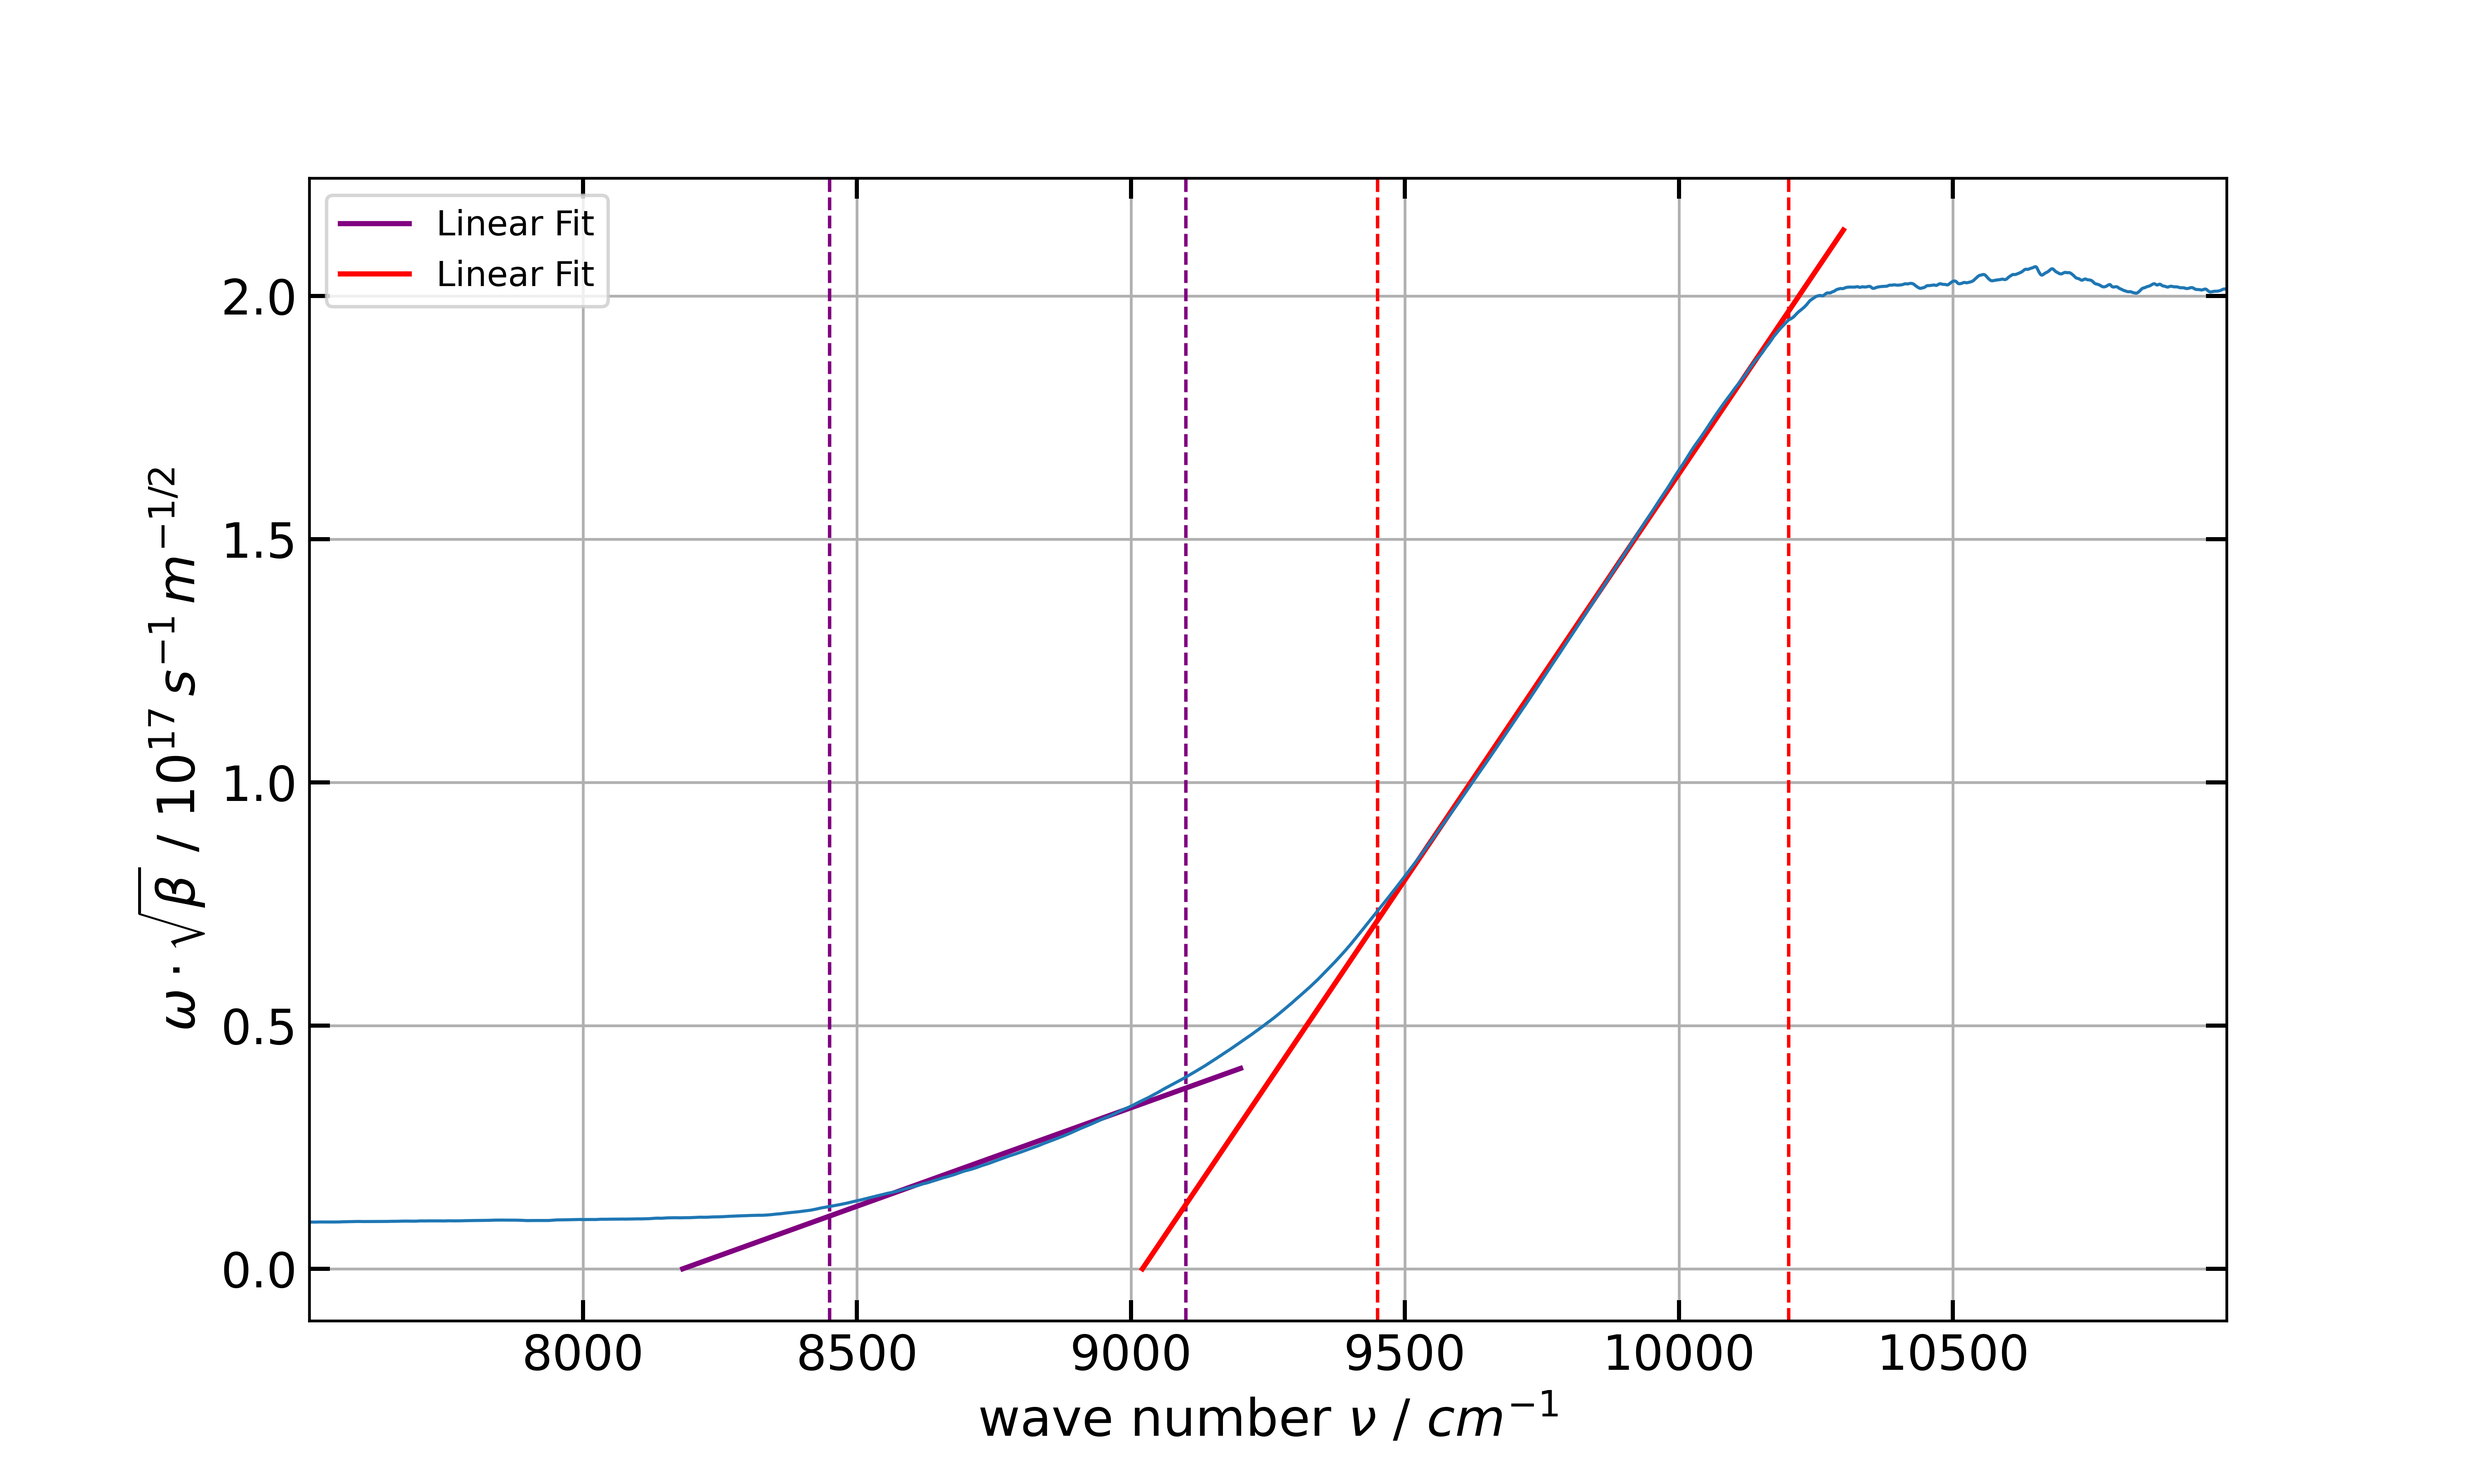
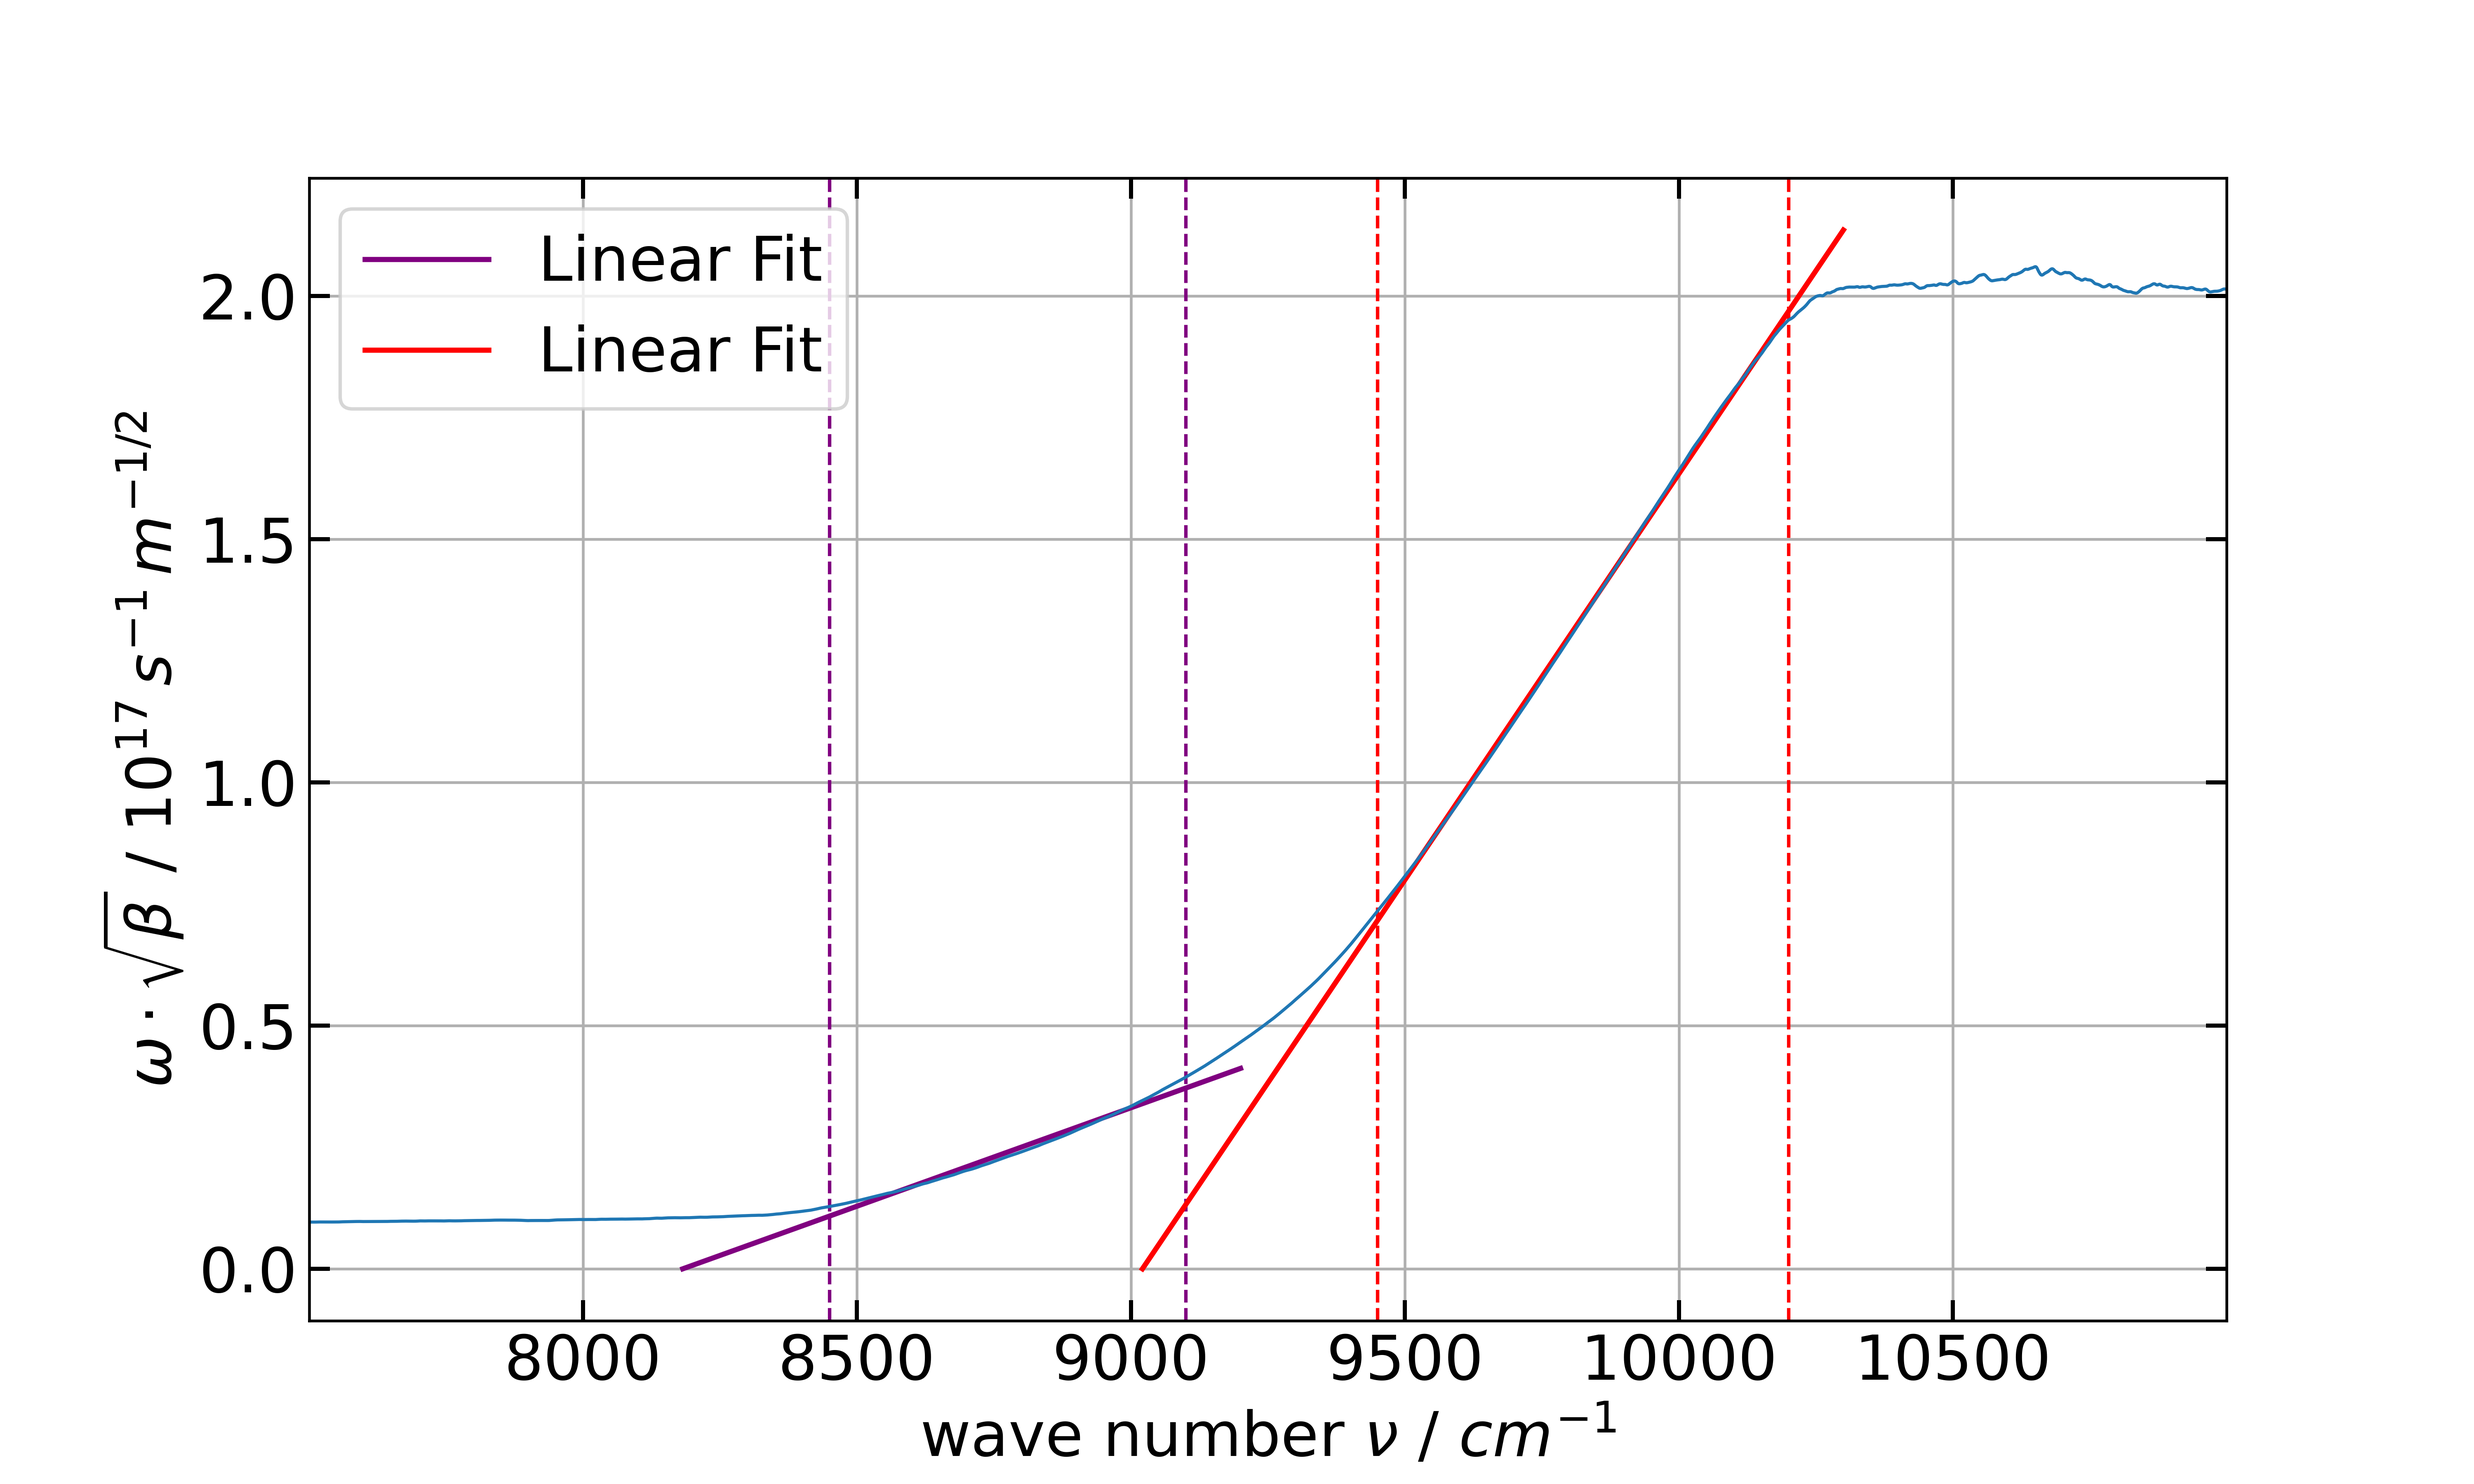
Bilder einfach noch schöner

diff --git a/SolidStateOptics/countTo50.py b/SolidStateOptics/countTo50.py
@@ -49,13 +49,13 @@ def plot_peaks(data, d, x_center, x_range, prominence=0.004, filename=""):
        
     plt.xlabel(plt.gca().get_xlabel(), fontsize=15)
     plt.ylabel(plt.gca().get_xlabel(), fontsize=15)
-    plt.tick_params(axis='both', labelsize=14)
+    plt.tick_params(axis='both', labelsize=18)
     plt.tick_params(axis='both', direction='in', which='both', top=True, right=True)
     plt.tick_params(axis='both', length=6, width=1.2)
-    plt.xlabel(r'wave number $\nu$ / ' + r'$cm^{-1}$', fontsize=15)
-    plt.ylabel(r'Reflectivity R', fontsize=15)
+    plt.xlabel(r'wave number $\nu$ / ' + r'$cm^{-1}$', fontsize=18)
+    plt.ylabel(r'reflectivity R', fontsize=20)
     plt.xlim(left=x_min, right=x_max)
-    plt.legend(fontsize=15) 
+    plt.legend(fontsize=20) 
     save_and_open(filename=filename)
 
 def calculate_n(data, d, x_center, windowSize, prominence=0.004):
@@ -71,7 +71,7 @@ def calculate_n(data, d, x_center, windowSize, prominence=0.004):
     
     periods = [- x_values[peaksInWindow[i + 1]] + x_values[peaksInWindow[i]] for i in range(len(peaksInWindow)-1)]
     period = sum(periods) / len(periods)
-    print(f"nr. period {len(periods)} bei nu {x_center}")      
+    #print(f"nr. period {len(periods)} bei nu {x_center}")      
     return 1/(2*d*period*100)
 
 
@@ -87,19 +87,19 @@ def plot_the_ns(windowsize=200):
         plt.plot([nu for nu in range(nu_min, nu_max, 500)], ns, '.', label=label, markersize=10, color=colors[idx % len(colors)])  # Use color from the list
 
     plt.grid(True)
-    plt.xlabel(plt.gca().get_xlabel(), fontsize=15)
-    plt.ylabel(plt.gca().get_xlabel(), fontsize=15)
-    plt.tick_params(axis='both', labelsize=14)
+    plt.xlabel(plt.gca().get_xlabel(), fontsize=20)
+    plt.ylabel(plt.gca().get_xlabel(), fontsize=20)
+    plt.tick_params(axis='both', labelsize=18)
     plt.tick_params(axis='both', direction='in', which='both', top=True, right=True)
     plt.tick_params(axis='both', length=6, width=1.2)
-    plt.xlabel(r'wave number $\nu$ / ' + r'$cm^{-1}$', fontsize=15)
-    plt.ylabel(r'refractive index n', fontsize=15)
-    plt.legend(fontsize=15) 
+    plt.xlabel(r'wave number $\nu$ / ' + r'$cm^{-1}$', fontsize=20)
+    plt.ylabel(r'refractive index n', fontsize=20)
+    plt.legend(fontsize=18) 
     save_and_open("RefractiveIndicesDiscrete")
 
 
-plot_peaks(transmissionSiUnDo, 500, 8000, 150, 0.004, filename="LewiPeak")
-#plot_the_ns()
+#plot_peaks(transmissionSiUnDo, 500, 8000, 150, 0.004, filename="LewiPeak")
+plot_the_ns()
 
 
 # Example usage

diff --git a/SolidStateOptics/exp4.py b/SolidStateOptics/exp4.py
@@ -205,8 +205,8 @@ def plotKomischeFunktion(reflection, transmission, k_min, k_max, k_min_regressio
     
     writeLatexMacro('pulseMatrixElement_' + title.replace(' ','_'), pulseMatrixElement, r'$m\, kg s^{-1}$', pulseMatrixElement_fehler)
     
-    plt.xticks(fontsize=16)
-    plt.yticks(fontsize=16)
+    plt.xticks(fontsize=18)
+    plt.yticks(fontsize=18)
     
     plt.xlabel(r'wave number $\nu$ / ' + r'$cm^{-1}$', fontsize=19)   
     plt.ylabel(r'($\epsilon ^{\prime \prime} \omega^2)^2\, / \, 10^{56} \left[\frac{A}{Vms}\right]^2$', fontsize=19) 
@@ -302,12 +302,15 @@ def plotKomischeIndirectFunction(reflection, transmission, d, k_min, k_max, k1_m
     writeLatexMacro("bandgap_" + title, bandgap, 'eV', bandgap_fehler)
     writeLatexMacro("hquerOMEGA_" + title, hquerOMEGA, 'eV', hquerOMEGA_fehler) # ist der gleiche fehler wie für die bandgap
     
-    plt.legend()
+    plt.legend(fontsize=18)
     
     plot_data(k_chopper(komischeIndirFunktion, k_min=k_min, k_max=k_max), label=title)
-    plt.xlabel(r'wave number $\nu$ / ' + r'$cm^{-1}$')
+    plt.xlabel(r'wave number $\nu$ / ' + r'$cm^{-1}$', fontsize=18)
     
-    plt.ylabel(r'$\omega \cdot \sqrt{\beta}$ / ' + r'$10^{17}\,s^{-1}\,m^{-1/2}$')
+    plt.xticks(fontsize=18)
+    plt.yticks(fontsize=18)
+    
+    plt.ylabel(r'$\omega \cdot \sqrt{\beta}$ / ' + r'$10^{17}\,s^{-1}\,m^{-1/2}$', fontsize=18)
     save_and_open(filename=title)
 
 def plot_reflections(glättwert=0.01):
@@ -335,9 +338,9 @@ def plot_transmissions(glättwert=0.01):
     save_and_open("Low_Res_Transmissions")
 
 
-#plotKomischeIndirectFunction(reflectionSiUnDo, transmissionSiUnDo, d=530*10**-6, k_min=7500, k_max=11000,
-#                              k1_min_regression=8450, k1_max_regression=9100, k2_min_regression=9450, k2_max_regression=10200,
-#                              glättwert=0.01, title="Si_Undoped")
+plotKomischeIndirectFunction(reflectionSiUnDo, transmissionSiUnDo, d=530*10**-6, k_min=7500, k_max=11000,
+                              k1_min_regression=8450, k1_max_regression=9100, k2_min_regression=9450, k2_max_regression=10200,
+                              glättwert=0.01, title="Si_Undoped")
 
 
 #plot_the_kappas(glättwert=0.9, title="kappa")

diff --git a/SolidStateOptics/SignaltoNoise.py b/SolidStateOptics/SignaltoNoise.py
@@ -39,7 +39,7 @@ def save_and_open(filename="SignalToNoise", title=""):
     plt.legend(fontsize=16, loc='upper center')  # Legende vergrößert und in der oberen Mitte positioniert
     plt.xticks(fontsize=16)
     plt.yticks(fontsize=16)
-    plt.xlabel(r'wave number / $cm^{-1}$', fontsize=18)  # x-Achse im LaTeX-Stil benannt
+    plt.xlabel(r'wave number $\nu$ / $cm^{-1}$', fontsize=18)  # x-Achse im LaTeX-Stil benannt
     plt.ylabel(r'transmission $T$', fontsize=18)  # y-Achse im LaTeX-Stil benannt
 
     # Inset-Plot hinzufügen
@@ -173,7 +173,7 @@ def plotSNR(datasets, x_min, x_max):
     plt.gca().set_yticks(y_ticks)
     plt.gca().set_yticklabels(y_ticks)  # Format as plain numbers
 
-    plt.xlabel('Number of Scans / N', fontsize=16)
+    plt.xlabel(r'Number of Scans / $N_{scan}$', fontsize=16)
     plt.ylabel(r'Signal to Noise Ratio (SNR) / $10^{3}$', fontsize=16)
     plt.xticks(fontsize=16)
     plt.yticks(fontsize=16)
@@ -193,15 +193,15 @@ def plotSNR(datasets, x_min, x_max):
     Image.open(".\\Paper\\Images\\"+'STNLog' + ".png").show()
     plt.clf()
 
-'''
+
 # Plot für alle Datensätze
-plot_data(N10, label='N = 10')
+plot_data(N10, label=r'$N_{scan}$ = 10')
 #plot_data(N20)
 #plot_data(N50)
 #plot_data(N75)
-plot_data(N100, label='N = 100')
+plot_data(N100, label=r'$N_{scan}$ = 100')
 save_and_open()
-'''
 
-plotSNR(datasets, x_min, x_max)
+
+#plotSNR(datasets, x_min, x_max)
 #save_and_open()

diff --git a/Paper/macros.tex b/Paper/macros.tex
@@ -2,9 +2,9 @@
 \newcommand{\pulseMatrixElementGaAsUndoped}{\left(6.48 \pm 0.63\right) \cdot 10^{-25}\,\text{$m\, kg s^{-1}$}}
 \newcommand{\bandgapGaAsDoped}{\left(1.3728 \pm 0.0015\right) \cdot 10^{0}\,\text{eV}}
 \newcommand{\pulseMatrixElementGaAsDoped}{\left(6.17 \pm 0.19\right) \cdot 10^{-25}\,\text{$m\, kg s^{-1}$}}
-\newcommand{\bandgapSiUndoped}{\left(1.0665 \pm 0.0017\right) \cdot 10^{0}\,\text{eV}}
-\newcommand{\hquerOMEGASiUndoped}{\left(5.20 \pm 0.17\right) \cdot 10^{-2}\,\text{eV}}
 \newcommand{\bandgapGaSbDoped}{\left(6.891 \pm 0.021\right) \cdot 10^{-1}\,\text{eV}}
 \newcommand{\pulseMatrixElementGaSbDoped}{\left(4.55 \pm 0.21\right) \cdot 10^{-25}\,\text{$m\, kg s^{-1}$}}
+\newcommand{\bandgapSiUndoped}{\left(1.0665 \pm 0.0017\right) \cdot 10^{0}\,\text{eV}}
+\newcommand{\hquerOMEGASiUndoped}{\left(5.20 \pm 0.17\right) \cdot 10^{-2}\,\text{eV}}
 \newcommand{\stn}{\left(4.97 \pm 0.25\right) \cdot 10^{-1}}
 \newcommand{\NDichte}{\left(5.900\right) \cdot 10^{28}}

diff --git a/SolidStateOptics/Transmitivity.py b/SolidStateOptics/Transmitivity.py
@@ -7,8 +7,8 @@ from Frauen import bügeln
 
 transmission = read_dpt_file(r'.\SolidStateOptics\RawData\Transmission_ex3\GaAs_doped_res03_N50_new_normalized.DPT')
 
-x1_inset = 1500
-x2_inset = 1600
+x1_inset = 6000
+x2_inset = 6100
 
 
 
@@ -38,6 +38,10 @@ ax_inset.plot([point[0] for point in chopped_data], [point[1] for point in chopp
 ax_inset.tick_params(axis='both', direction='in')
 ax_inset.tick_params(axis='both', which='both', direction='in', top=True, right=True)
 
-plt.xlabel(r'wave number $\nu$ / ' + r'$cm^{-1}$', fontsize=15)
-plt.ylabel(r'Transmission T', fontsize=15)
-save_and_open(filename="foo")#Transmission_High_Res_GaAs_Doped_N50")
+
+
+plt.xlabel(r'wave number $\nu$ / ' + r'$cm^{-1}$', fontsize=18)
+plt.ylabel(r'transmission T', fontsize=18)
+plt.xticks(fontsize=18)
+plt.yticks(fontsize=18)
+save_and_open(filename="Transmission_High_Res_GaAs_Doped_N50")#Transmission_High_Res_GaAs_Doped_N50")

diff --git a/SolidStateOptics/Theory/TheoreticalCurveReflectionSemiconductor.py b/SolidStateOptics/Theory/TheoreticalCurveReflectionSemiconductor.py
@@ -62,10 +62,11 @@ def plotReflectivitySemiconductor(d, tau2, tau3, tau4, k_max_semicon):
     plt.axvline(x=k_plasma_semicon / 1000, color='black', linestyle='--', label=r'$k_{plasma}$')
 
     # Achsentitel und Bereich anpassen
-    plt.xlabel(r'wave number $\nu$ / $10^3 \, \mathrm{m}^{-1}$')
-    plt.ylabel('reflectivity R')
-    plt.title('Theoretical reflectivity of a semiconductor')
-    plt.legend()
+    plt.xlabel(r'wave number $\nu$ / $10^3 \, \mathrm{m}^{-1}$',fontsize=15)
+    plt.ylabel('reflectivity R', fontsize=15)
+    plt.xticks(fontsize=15)
+    plt.yticks(fontsize=15)
+    plt.legend(fontsize=15)
     plt.tick_params(axis='both', direction='in', which='both', top=True, right=True)
     plt.xlim(left=0, right=1)
     plt.ylim(bottom=0, top=1)

diff --git a/SolidStateOptics/GasAbsorption.py b/SolidStateOptics/GasAbsorption.py
@@ -17,7 +17,14 @@ dataReference = read_dpt_file(filepathReference)
 
 
 plot_data(read_dpt_file(filepathNormalized))
-plt.xlabel('wave number k / ' + r'$cm^{-1}$')
-plt.ylabel('Transmission T')
+plt.xlabel('wave number k / ' + r'$cm^{-1}$', fontsize=17)
+plt.ylabel('Transmission T', fontsize=17)
+plt.tick_params(axis='both', which='major', labelsize=17)
+
+
+plt.text(2100, 0.62, '(1)', fontsize=15, color='black')
+plt.text(3500, 0.68, '(2)', fontsize=15, color='black')
+plt.text(5100, 0.95, '(3)', fontsize=15, color='black')
+plt.text(7000, 0.98, '(4)', fontsize=15, color='black')
 
 save_and_open("GasAbsorption")

diff --git a/SolidStateOptics/Theory/TheoreticalCurveReflection.py b/SolidStateOptics/Theory/TheoreticalCurveReflection.py
@@ -72,9 +72,9 @@ def plotReflectivity(d, tau1, tau2, tau3, tau4, tau5, k_max):
     ax.axvline(x=k_plasma*10**-8, color='black', linestyle='--', label=r'$\nu_{plasma}$')
     ax.legend(fontsize=14)
 
-    plt.savefig('Paper/Images/foo.png', dpi=400)
+    plt.savefig('Paper/Images/theoretical_reflectivity.png', dpi=400)
     from PIL import Image
-    Image.open("Paper/Images/foo.png").show()
+    Image.open("Paper/Images/theoretical_reflectivity.png").show()
     plt.clf()
     plt.close()
 
